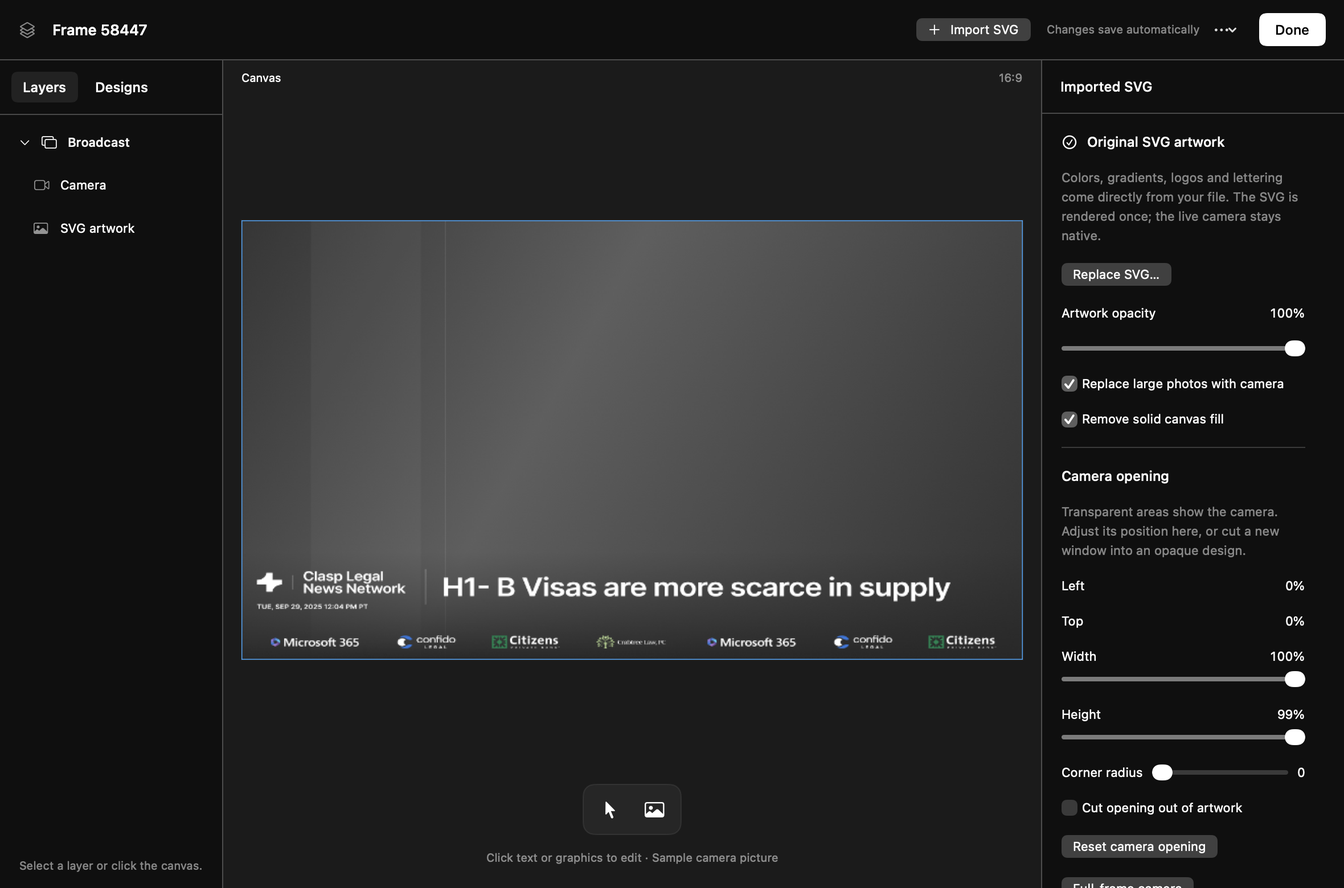
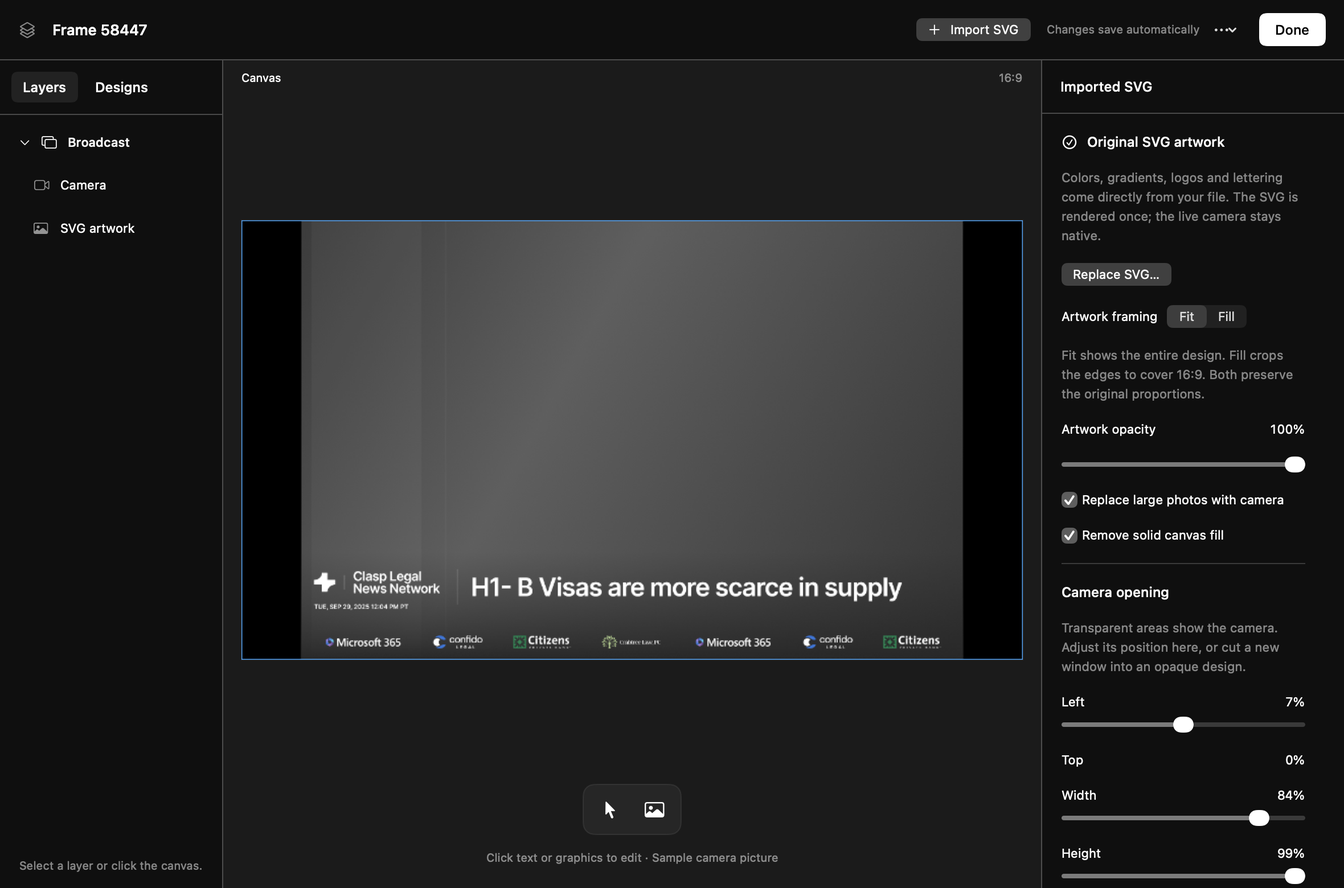
Preserve SVG proportions and enable account-free automatic updates

Changed region(s): [[0.1547, 0.2462, 0.9898, 0.8615], [0.7733, 0.8615, 0.9898, 1.0]]

diff --git a/Sources/SVGOverlay.swift b/Sources/SVGOverlay.swift
@@ -19,7 +19,15 @@ struct ImportedSVGOverlay: Codable, Equatable {
     var replacePhotos = true
     var removeCanvasFill = true
     var removedPhotos = 0
+    // Missing on older projects whose raster artwork was stretched to 16:9.
+    var fit: SVGArtworkFit?
+    var cameraForRendering: SVGCameraWindow {
+        guard fit == nil else { return camera }
+        let frame = ImportedSVGGraphics.legacyArtworkRect(self)
+        return SVGCameraWindow(x: Double((frame.minX + camera.x * frame.width) / 1280), y: Double((720 - frame.maxY + camera.y * frame.height) / 720), width: Double(camera.width * frame.width / 1280), height: Double(camera.height * frame.height / 720), radius: camera.radius)
+    }
 }
+enum SVGArtworkFit: String, Codable, CaseIterable { case fit = "Fit", fill = "Fill" }
 enum SVGOverlayImport {
     // SVG is artwork, never executable input. Network and file references are
     // removed before WebKit sees it; its page also has a restrictive CSP.
@@ -51,10 +59,10 @@ enum SVGOverlayImport {
         try clean(root, depth: 0)
         return root.xmlString(options: [.nodePreserveAll]).data(using: .utf8)!
     }
-    @MainActor static func render(_ data: Data, replacePhotos: Bool = true, removeCanvasFill: Bool = true) async throws -> ImportedSVGOverlay {
+    @MainActor static func render(_ data: Data, replacePhotos: Bool = true, removeCanvasFill: Bool = true, fit: SVGArtworkFit = .fit) async throws -> ImportedSVGOverlay {
         let clean = try await Task.detached { try sanitize(data) }.value
         let renderer = SVGImportRenderer()
-        return try await renderer.render(clean, replacePhotos: replacePhotos, removeCanvasFill: removeCanvasFill)
+        return try await renderer.render(clean, replacePhotos: replacePhotos, removeCanvasFill: removeCanvasFill, fit: fit)
     }
 }
 @MainActor private final class SVGImportRenderer: NSObject, WKNavigationDelegate {
@@ -63,8 +71,9 @@ enum SVGOverlayImport {
     private var timeout: Task<Void, Never>?
     private var source = Data()
     private var replacePhotos = true, removeCanvasFill = true
-    func render(_ source: Data, replacePhotos: Bool, removeCanvasFill: Bool) async throws -> ImportedSVGOverlay {
-        self.source = source; self.replacePhotos = replacePhotos; self.removeCanvasFill = removeCanvasFill
+    private var fit = SVGArtworkFit.fit
+    func render(_ source: Data, replacePhotos: Bool, removeCanvasFill: Bool, fit: SVGArtworkFit) async throws -> ImportedSVGOverlay {
+        self.source = source; self.replacePhotos = replacePhotos; self.removeCanvasFill = removeCanvasFill; self.fit = fit
         let config = WKWebViewConfiguration(); config.websiteDataStore = .nonPersistent()
         config.defaultWebpagePreferences.allowsContentJavaScript = false
         webView = WKWebView(frame: NSRect(x: 0, y: 0, width: 1280, height: 720), configuration: config)
@@ -92,33 +101,36 @@ enum SVGOverlayImport {
             if(!(w>0&&h>0)) throw Error('SVG needs a viewBox or width and height');
             svg.setAttribute('viewBox',`0 0 ${w} ${h}`);
           }
-          svg.setAttribute('width','1280');svg.setAttribute('height','720');svg.setAttribute('preserveAspectRatio','none');
+          svg.setAttribute('width','1280');svg.setAttribute('height','720');svg.setAttribute('preserveAspectRatio','xMidYMid \#(fit == .fit ? "meet" : "slice")');
+          const view=svg.viewBox.baseVal,scale=Math.\#(fit == .fit ? "min" : "max")(1280/view.width,720/view.height);
+          const canvas={x:(1280-view.width*scale)/2560,y:(720-view.height*scale)/1440,width:view.width*scale/1280,height:view.height*scale/720};
           const bounds=e=>{const b=e.getBoundingClientRect();return {x:b.x/1280,y:b.y/720,width:b.width/1280,height:b.height/720}};
           const area=b=>b.width*b.height;
           const visible=e=>!e.closest('defs,clipPath,mask,pattern');
           const candidates=[];
           for(const e of svg.querySelectorAll('image,rect,path,polygon')){
             if(!visible(e))continue;
-            const b=bounds(e);if(area(b)<.05)continue;
+            const b=bounds(e);if(area(b)/area(canvas)<.05)continue;
             const label=(e.id+' '+(e.getAttribute('data-role')||'')).toLowerCase();
             if(/camera|video-feed|presenter-photo/.test(label)) candidates.push({e,b,named:true});
-            if(e.tagName.toLowerCase()==='image'&&area(b)>.18)candidates.push({e,b,photo:true});
+            if(e.tagName.toLowerCase()==='image'&&area(b)/area(canvas)>.18)candidates.push({e,b,photo:true});
             const fill=e.getAttribute('fill')||getComputedStyle(e).fill;
             const match=fill.match(/url\(["']?#([^"')]+)["']?\)/);
             const pattern=match?document.getElementById(match[1]):null;
-            if(pattern&&pattern.tagName.toLowerCase()==='pattern'&&area(b)>.18){
+            if(pattern&&pattern.tagName.toLowerCase()==='pattern'&&area(b)/area(canvas)>.18){
               const embedded=pattern.querySelector('image')||Array.from(pattern.querySelectorAll('use')).map(u=>document.getElementById((u.getAttribute('href')||u.getAttribute('xlink:href')||'').replace(/^#/,''))).find(n=>n&&n.tagName.toLowerCase()==='image');
               if(embedded)candidates.push({e,b,photo:true,pattern,embedded});
             }
           }
           candidates.sort((a,b)=>(b.named?10:0)+area(b.b)-(a.named?10:0)-area(a.b));
-          const camera=candidates[0]?.b||{x:0,y:0,width:1,height:1};let removed=0;
+          const opening=candidates[0]?.b||canvas;
+          const camera={x:Math.max(0,opening.x),y:Math.max(0,opening.y),width:Math.min(1,opening.x+opening.width)-Math.max(0,opening.x),height:Math.min(1,opening.y+opening.height)-Math.max(0,opening.y)};let removed=0;
           if(\#(replacePhotos ? "true" : "false"))for(const c of candidates){
             if(c.photo||c.named){c.e.remove();if(c.pattern)c.pattern.remove();if(c.embedded)c.embedded.remove();removed++;}
           }
           if(\#(removeCanvasFill ? "true" : "false"))for(const e of Array.from(svg.querySelectorAll('rect'))){
             if(!visible(e))continue;const b=bounds(e),fill=e.getAttribute('fill')||getComputedStyle(e).fill;
-            if(area(b)>.97&&!fill.includes('url(')&&fill!=='none')e.remove();
+            if(area(b)/area(canvas)>.97&&!fill.includes('url(')&&fill!=='none')e.remove();
           }
           return {camera,removed};
         })()
@@ -132,7 +144,7 @@ enum SVGOverlayImport {
             self.webView.takeSnapshot(with: snapshot) { [weak self] image, error in
                 guard let self, self.continuation != nil else { return }
                 guard let cg = image?.studioCGImage, let normalized = BroadcastGraphics.image({ ctx in ctx.draw(cg, in: CGRect(x: 0, y: 0, width: 1280, height: 720)) }), let png = NSBitmapImageRep(cgImage: normalized).representation(using: .png, properties: [:]) else { self.finish(.failure(error ?? StudioError.message("The SVG preview could not be created."))); return }
-                self.finish(.success(ImportedSVGOverlay(source: self.source, png: png, camera: camera, replacePhotos: self.replacePhotos, removeCanvasFill: self.removeCanvasFill, removedPhotos: result["removed"] as? Int ?? 0)))
+                self.finish(.success(ImportedSVGOverlay(source: self.source, png: png, camera: camera, replacePhotos: self.replacePhotos, removeCanvasFill: self.removeCanvasFill, removedPhotos: result["removed"] as? Int ?? 0, fit: self.fit)))
             }
         }
     }
@@ -143,6 +155,21 @@ enum SVGOverlayImport {
     }
 }
 enum ImportedSVGGraphics {
+    private static let legacyFrames = NSCache<NSString, NSValue>()
+    static func legacyArtworkRect(_ asset: ImportedSVGOverlay) -> CGRect {
+        let key = asset.id.uuidString as NSString
+        if let value = legacyFrames.object(forKey: key) { return value.rectValue }
+        var size = CGSize(width: 1280, height: 720)
+        if let root = (try? XMLDocument(data: asset.source, options: [.nodeLoadExternalEntitiesNever]))?.rootElement() {
+            let box = (root.attribute(forName: "viewBox")?.stringValue ?? "").split(whereSeparator: { $0.isWhitespace || $0 == "," }).compactMap { Double($0) }
+            if box.count == 4 { size = CGSize(width: box[2], height: box[3]) }
+            else if let width = root.attribute(forName: "width")?.stringValue.flatMap(Double.init), let height = root.attribute(forName: "height")?.stringValue.flatMap(Double.init) { size = CGSize(width: width, height: height) }
+        }
+        if !size.width.isFinite || !size.height.isFinite || size.width <= 0 || size.height <= 0 { size = CGSize(width: 1280, height: 720) }
+        let scale = min(1280 / size.width, 720 / size.height)
+        let frame = CGRect(x: (1280 - size.width * scale) / 2, y: (720 - size.height * scale) / 2, width: size.width * scale, height: size.height * scale)
+        legacyFrames.setObject(NSValue(rect: frame), forKey: key); return frame
+    }
     private static let cache: NSCache<NSString, NSImage> = { let value = NSCache<NSString, NSImage>(); value.countLimit = 16; value.totalCostLimit = 64 * 1024 * 1024; return value }()
     static func artwork(_ asset: ImportedSVGOverlay) -> CGImage? {
         let key = asset.id.uuidString as NSString
@@ -151,9 +178,9 @@ enum ImportedSVGGraphics {
         cache.setObject(image, forKey: key, cost: 1280 * 720 * 4); return image.studioCGImage
     }
     static func settings(_ doc: OverlayDocument, mirror: Bool) -> RenderSettings {
-        let camera = doc.cameraWindow ?? doc.importedSVG?.camera ?? SVGCameraWindow(), rect = camera.rect
+        let camera = doc.cameraWindow ?? doc.importedSVG?.cameraForRendering ?? SVGCameraWindow(), rect = camera.rect
         let overlay = BroadcastGraphics.image { ctx in
-            if let asset = doc.importedSVG, let artwork = artwork(asset) { ctx.setAlpha(min(1, max(0, doc.artworkOpacity ?? 1))); ctx.draw(artwork, in: CGRect(x: 0, y: 0, width: 1280, height: 720)) }
+            if let asset = doc.importedSVG, let artwork = artwork(asset) { ctx.setAlpha(min(1, max(0, doc.artworkOpacity ?? 1))); ctx.draw(artwork, in: asset.fit == nil ? legacyArtworkRect(asset) : CGRect(x: 0, y: 0, width: 1280, height: 720)) }
             if doc.cutCameraWindow == true { ctx.setBlendMode(.clear); BroadcastGraphics.rounded(ctx, rect, camera.safeRadius, .clear) }
         }
         let mask = BroadcastGraphics.image { ctx in BroadcastGraphics.rounded(ctx, rect, camera.safeRadius, .white) }

diff --git a/Sources/AppUpdater.swift b/Sources/AppUpdater.swift
@@ -49,28 +49,40 @@ enum UpdateCommand {
     }
 }
 struct GitHubRelease: Decodable {
-    struct Asset: Decodable { let id: Int; let name: String; let size: Int }
+    struct Asset: Decodable { let id: Int; let name: String; let size: Int; var browser_download_url: URL? }
     let tag_name: String
     let assets: [Asset]
 }
 struct GitHubTransport: Sendable {
     let token: String?
     static var cli: String? { ["/opt/homebrew/bin/gh", "/usr/local/bin/gh", "/usr/bin/gh"].first { FileManager.default.isExecutableFile(atPath: $0) } }
+    static func publicAssetURL(_ asset: GitHubRelease.Asset) -> URL? {
+        guard let url = asset.browser_download_url, url.scheme == "https", url.host == "github.com", url.user == nil, url.password == nil, url.port == nil, url.query == nil, url.fragment == nil,
+              url.path.hasPrefix("/" + UpdateVerification.repository + "/releases/download/"), url.lastPathComponent == asset.name else { return nil }
+        return url
+    }
+    private func request(_ url: URL, binary: Bool, authenticated: Bool = false) async throws -> Data {
+        var request = URLRequest(url: url); request.timeoutInterval = 45
+        if authenticated, let token, !token.isEmpty { request.setValue("Bearer " + token, forHTTPHeaderField: "Authorization") }
+        request.setValue(binary ? "application/octet-stream" : "application/vnd.github+json", forHTTPHeaderField: "Accept")
+        request.setValue("Clasp-Studio", forHTTPHeaderField: "User-Agent")
+        let (data, response) = try await URLSession.shared.data(for: request)
+        guard let response = response as? HTTPURLResponse, response.statusCode == 200 else { throw UpdateError.message("GitHub updates are unavailable right now. Check your connection or repository access.") }
+        return data
+    }
     func get(_ path: String, binary: Bool = false) async throws -> Data {
-        if let token, !token.isEmpty {
-            var request = URLRequest(url: URL(string: "https://api.github.com/" + path)!); request.timeoutInterval = 45
-            request.setValue("Bearer " + token, forHTTPHeaderField: "Authorization")
-            request.setValue(binary ? "application/octet-stream" : "application/vnd.github+json", forHTTPHeaderField: "Accept")
-            request.setValue("Clasp-Studio", forHTTPHeaderField: "User-Agent")
-            let (data, response) = try await URLSession.shared.data(for: request)
-            guard let response = response as? HTTPURLResponse, response.statusCode == 200 else { throw UpdateError.message("GitHub could not authorize this update request. Check your repository access.") }
-            return data
+        let url = URL(string: "https://api.github.com/" + path)!
+        // Public releases work without a token, GitHub account or CLI. Keep
+        // authenticated access as a fallback if the repository becomes private.
+        do { return try await request(url, binary: binary) } catch {
+            if let token, !token.isEmpty { return try await request(url, binary: binary, authenticated: true) }
+            guard let cli = Self.cli else { throw error }
+            return try await Task.detached { try UpdateCommand.run(cli, ["api", path, "--header", "Accept:" + (binary ? "application/octet-stream" : "application/vnd.github+json")]) }.value
         }
-        guard let cli = Self.cli else { throw UpdateError.message("Connect GitHub below to receive updates from the private repository.") }
-        return try await Task.detached { try UpdateCommand.run(cli, ["api", path, "--header", "Accept:" + (binary ? "application/octet-stream" : "application/vnd.github+json")]) }.value
     }
     func asset(_ asset: GitHubRelease.Asset) async throws -> Data {
         guard asset.size > 0, asset.size <= 128 * 1024 * 1024 else { throw UpdateError.message("The update asset is too large.") }
+        if let url = Self.publicAssetURL(asset) { do { return try await request(url, binary: true) } catch { /* Try authenticated API access for private releases. */ } }
         return try await get("repos/" + UpdateVerification.repository + "/releases/assets/\(asset.id)", binary: true)
     }
 }
@@ -91,7 +103,7 @@ enum UpdateCredentials {
     static func remove() { SecItemDelete(query as CFDictionary) }
 }
 @MainActor final class AppUpdater: ObservableObject {
-    @Published var message = "Updates come from your private GitHub repository."
+    @Published var message = "Signed updates download automatically from GitHub and install when you quit."
     @Published var working = false
     @Published var ready = false
     @Published var automatic = UserDefaults.standard.object(forKey: "automaticGitHubUpdates") as? Bool ?? true { didSet { UserDefaults.standard.set(automatic, forKey: "automaticGitHubUpdates") } }
@@ -102,7 +114,7 @@ enum UpdateCredentials {
     private var prepared: URL?
     private var updateBuild = 0
     private var cache: URL { FileManager.default.urls(for: .cachesDirectory, in: .userDomainMask)[0].appendingPathComponent("com.clasp.studio/updates", isDirectory: true) }
-    var accountDescription: String { hasToken ? "GitHub access saved in Keychain" : GitHubTransport.cli != nil ? "Uses your signed-in GitHub CLI" : "Connect GitHub to access this private repository" }
+    var accountDescription: String { hasToken ? "Private-repository access saved in Keychain" : "Public updates work without a GitHub account. Access is only needed for private releases." }
     init() { hasToken = UpdateCredentials.token() != nil }
     deinit { timer?.invalidate() }
     func start() {
@@ -113,7 +125,7 @@ enum UpdateCredentials {
     func saveToken(_ token: String) { do { try UpdateCredentials.save(token); hasToken = true; message = "GitHub connected. Check for updates when ready." } catch { message = error.localizedDescription } }
     func removeToken() { UpdateCredentials.remove(); hasToken = false; message = "GitHub access removed from Keychain." }
     func check() async {
-        guard !working, !ready else { return }; working = true; message = "Checking GitHub…"
+        guard !working else { return }; working = true; message = "Checking GitHub…"
         defer { working = false }
         do {
             let transport = GitHubTransport(token: UpdateCredentials.token())
@@ -124,6 +136,7 @@ enum UpdateCredentials {
             let manifest = try UpdateVerification.verify(data, signature: signature, publicKey: key)
             let build = Int(Bundle.main.object(forInfoDictionaryKey: "CFBundleVersion") as? String ?? "0") ?? 0
             guard manifest.build > build else { message = "You're up to date · build \(build)"; return }
+            if ready, manifest.build <= updateBuild { message = "Update ready · installs when you quit, or restart now."; return }
             guard archiveAsset.size == manifest.size else { throw UpdateError.message("The release archive size does not match its signed manifest.") }
             if try Bundle.main.bundleURL.resourceValues(forKeys: [.volumeIsReadOnlyKey]).volumeIsReadOnly == true { message = "Update available. Install Clasp Studio in Applications first."; return }
             message = "Downloading Clasp Studio \(manifest.version)…"
@@ -139,7 +152,9 @@ enum UpdateCredentials {
                 _ = try UpdateCommand.run("/usr/bin/codesign", ["--verify", "--deep", "--strict", app.path])
                 guard let bundle = Bundle(url: app), bundle.bundleIdentifier == "com.clasp.studio", Int(bundle.object(forInfoDictionaryKey: "CFBundleVersion") as? String ?? "0") == manifest.build else { throw UpdateError.message("The app inside this update does not match the signed release.") }
             }.value
+            let previous = prepared
             prepared = app; updateBuild = manifest.build; ready = true
+            if let previous { try? FileManager.default.removeItem(at: previous.deletingLastPathComponent().deletingLastPathComponent()) }
             message = "Update ready · installs when you quit, or restart now."
         } catch { message = error.localizedDescription.contains("404") ? "Waiting for the first GitHub release." : error.localizedDescription }
     }

diff --git a/Tests/SVGOverlayTests.swift b/Tests/SVGOverlayTests.swift
@@ -25,9 +25,27 @@ extension StudioTests {
         let clear = bitmap.colorAt(x: 640, y: 360)!.alphaComponent, middle = bitmap.colorAt(x: 640, y: 630)!.alphaComponent, bottom = bitmap.colorAt(x: 640, y: 715)!.alphaComponent
         check(clear < 0.01 && middle > 0.3 && middle < 0.7 && bottom > 0.9, "SVG alpha gradients survive import instead of becoming a solid background")
         check(bitmap.colorAt(x: 1210, y: 40)!.redComponent > 0.9 && bitmap.colorAt(x: 1210, y: 40)!.alphaComponent > 0.9, "Small embedded SVG logos remain in the original artwork")
+        let square = Data("<svg xmlns='http://www.w3.org/2000/svg' viewBox='0 0 100 100'><rect id='camera' width='100' height='100'/><circle cx='50' cy='50' r='20' fill='red'/></svg>".utf8)
+        let fitted = try await SVGOverlayImport.render(square)
+        let fitPixels = NSBitmapImageRep(data: fitted.png)!
+        check(fitted.fit == .fit && fitted.camera.rect == CGRect(x: 280, y: 0, width: 720, height: 720), "Non-16:9 SVGs fit with a camera opening that preserves source proportions")
+        check(fitPixels.colorAt(x: 500, y: 360)!.alphaComponent > 0.9 && fitPixels.colorAt(x: 480, y: 360)!.alphaComponent < 0.01 && fitPixels.colorAt(x: 640, y: 500)!.alphaComponent > 0.9 && fitPixels.colorAt(x: 640, y: 520)!.alphaComponent < 0.01, "A square SVG circle stays circular in the 16:9 preview")
+        let filled = try await SVGOverlayImport.render(square, fit: .fill)
+        let fillPixels = NSBitmapImageRep(data: filled.png)!
+        check(filled.camera.rect == CGRect(x: 0, y: 0, width: 1280, height: 720) && fillPixels.colorAt(x: 390, y: 360)!.alphaComponent > 0.9 && fillPixels.colorAt(x: 640, y: 610)!.alphaComponent > 0.9, "Fill covers the broadcast by cropping, without stretching SVG geometry")
+        let portrait = try await SVGOverlayImport.render(Data("<svg xmlns='http://www.w3.org/2000/svg' viewBox='10 20 100 200'><rect x='10' y='20' width='100' height='200' fill='white'/><rect id='camera' x='10' y='20' width='100' height='200'/></svg>".utf8))
+        check(portrait.camera.rect == CGRect(x: 460, y: 0, width: 360, height: 720) && NSBitmapImageRep(data: portrait.png)!.colorAt(x: 640, y: 360)!.alphaComponent < 0.01, "Portrait SVGs and nonzero viewBox origins retain their camera alignment and remove solid canvas fills")
+        var legacy = fitted; legacy.fit = nil; legacy.camera = SVGCameraWindow()
+        let stretched = BroadcastGraphics.image { ctx in BroadcastGraphics.fill(ctx, CGRect(x: 0, y: 0, width: 1280, height: 720), .red) }!
+        legacy.png = NSBitmapImageRep(cgImage: stretched).representation(using: .png, properties: [:])!
+        var legacyDoc = OverlayDocument.presets(StudioProject())[0]; legacyDoc.template = .custom; legacyDoc.importedSVG = legacy
+        let legacySettings = ImportedSVGGraphics.settings(legacyDoc, mirror: false), legacyPixels = NSBitmapImageRep(cgImage: legacySettings.overlay!)
+        check(legacySettings.cameraRect == CGRect(x: 280, y: 0, width: 720, height: 720) && legacyPixels.colorAt(x: 100, y: 360)!.alphaComponent < 0.01 && legacyPixels.colorAt(x: 300, y: 360)!.redComponent > 0.9, "Previously saved stretched SVGs recover their original aspect ratio without reimporting")
         var doc = OverlayDocument.presets(StudioProject())[0]; doc.template = .custom; doc.importedSVG = asset
         let encoded = try JSONEncoder().encode(doc), restored = try JSONDecoder().decode(OverlayDocument.self, from: encoded)
         check(restored.importedSVG == asset, "Imported SVG artwork and camera settings persist in projects and drafts")
+        let fillRoundTrip = try JSONDecoder().decode(ImportedSVGOverlay.self, from: JSONEncoder().encode(filled))
+        check(fillRoundTrip.fit == .fill, "SVG framing choice persists in saved projects")
         let context = CIContext(), bounds = CGRect(x: 0, y: 0, width: 1280, height: 720)
         let blue = CIImage(color: CIColor(red: 0, green: 0.6, blue: 1)).cropped(to: bounds)
         let rendered = BroadcastFrameRenderer(ImportedSVGGraphics.settings(doc, mirror: false)).compose(blue, at: 0)

diff --git a/Sources/ImportedSVGInspector.swift b/Sources/ImportedSVGInspector.swift
@@ -2,7 +2,7 @@ import SwiftUI
 
 struct ImportedSVGInspector: View {
     @ObservedObject var model: StudioModel
-    private var camera: SVGCameraWindow { model.overlay.cameraWindow ?? model.overlay.importedSVG?.camera ?? SVGCameraWindow() }
+    private var camera: SVGCameraWindow { model.overlay.cameraWindow ?? model.overlay.importedSVG?.cameraForRendering ?? SVGCameraWindow() }
     private func number(_ key: WritableKeyPath<SVGCameraWindow, Double>) -> Binding<Double> {
         Binding(get: { camera[keyPath: key] }, set: { value in var window = camera; window[keyPath: key] = value; model.editOverlay { $0.cameraWindow = window } })
     }
@@ -13,6 +13,10 @@ struct ImportedSVGInspector: View {
                 Text("Colors, gradients, logos and lettering come directly from your file. The SVG is rendered once; the live camera stays native.").foregroundStyle(.secondary).lineSpacing(3)
                 if model.importingSVG { ProgressView("Rendering SVG…").controlSize(.small) }
                 Button("Replace SVG…") { model.importSVGOverlay(replacing: model.overlay.id) }.disabled(model.importingSVG || model.busy)
+                Picker("Artwork framing", selection: Binding(get: { model.overlay.importedSVG?.fit ?? .fit }, set: { model.refreshImportedSVG(fit: $0) })) {
+                    ForEach(SVGArtworkFit.allCases, id: \.self) { Text($0.rawValue).tag($0) }
+                }.pickerStyle(.segmented).disabled(model.importingSVG || model.busy)
+                Text("Fit shows the entire design. Fill crops the edges to cover 16:9. Both preserve the original proportions.").foregroundStyle(.secondary).lineSpacing(3)
                 HStack { Text("Artwork opacity"); Spacer(); Text("\(Int((model.overlay.artworkOpacity ?? 1) * 100))%").monospacedDigit() }
                 Slider(value: Binding(get: { model.overlay.artworkOpacity ?? 1 }, set: { value in model.editOverlay { $0.artworkOpacity = value } }), in: 0...1)
                 Toggle("Replace large photos with camera", isOn: Binding(get: { model.overlay.importedSVG?.replacePhotos ?? true }, set: { model.refreshImportedSVG(replacePhotos: $0) })).toggleStyle(.checkbox).disabled(model.importingSVG || model.busy)

diff --git a/Tests/StudioTests.swift b/Tests/StudioTests.swift
@@ -360,6 +360,13 @@ enum StudioTests {
         let wrongBody = try! JSONEncoder().encode(wrongRepo)
         check((try? UpdateVerification.verify(wrongBody, signature: key.signature(for: wrongBody), publicKey: key.publicKey.rawRepresentation)) == nil, "The updater only accepts its configured repository")
         check(Bundle.main.url(forAuxiliaryExecutable: "ClaspUpdateInstaller") != nil, "The update installation helper is bundled")
+        let assetJSON = Data("{\"id\":1,\"name\":\"Clasp-Studio.zip\",\"size\":100,\"browser_download_url\":\"https://github.com/deanayoung3-droid/clasp-studio/releases/download/build-8/Clasp-Studio.zip\"}".utf8)
+        var publicAsset = try! JSONDecoder().decode(GitHubRelease.Asset.self, from: assetJSON)
+        check(GitHubTransport.publicAssetURL(publicAsset) != nil, "Public GitHub release assets can download without a token or GitHub CLI")
+        for invalid in ["http://github.com/deanayoung3-droid/clasp-studio/releases/download/build-8/Clasp-Studio.zip", "https://github.com/another/repo/releases/download/build-8/Clasp-Studio.zip", "https://example.com/deanayoung3-droid/clasp-studio/releases/download/build-8/Clasp-Studio.zip", "https://github.com/deanayoung3-droid/clasp-studio/releases/download/build-8/different.zip"] {
+            publicAsset.browser_download_url = URL(string: invalid)
+            check(GitHubTransport.publicAssetURL(publicAsset) == nil, "Public updater rejects an untrusted release download URL")
+        }
     }
     static func libraryChecks() async {
         let context = CIContext(), source = CIImage(color: CIColor(red: 0.2, green: 0.4, blue: 0.6)).cropped(to: CGRect(x: 0, y: 0, width: 640, height: 480))

diff --git a/Sources/StudioModel.swift b/Sources/StudioModel.swift
@@ -413,13 +413,13 @@ enum PrompterMode: String, CaseIterable {
             }
         }
     }
-    func refreshImportedSVG(replacePhotos: Bool? = nil, removeCanvasFill: Bool? = nil) {
+    func refreshImportedSVG(replacePhotos: Bool? = nil, removeCanvasFill: Bool? = nil, fit: SVGArtworkFit? = nil) {
         guard !importingSVG, !busy, let asset = overlay.importedSVG else { return }
         let id = overlay.id; importingSVG = true
         Task {
             defer { importingSVG = false }
             do {
-                let rendered = try await SVGOverlayImport.render(asset.source, replacePhotos: replacePhotos ?? asset.replacePhotos, removeCanvasFill: removeCanvasFill ?? asset.removeCanvasFill)
+                let rendered = try await SVGOverlayImport.render(asset.source, replacePhotos: replacePhotos ?? asset.replacePhotos, removeCanvasFill: removeCanvasFill ?? asset.removeCanvasFill, fit: fit ?? asset.fit ?? .fit)
                 guard let index = project.overlayLibrary?.firstIndex(where: { $0.id == id }) else { return }
                 project.overlayLibrary?[index].importedSVG = rendered
             } catch { alert = error.localizedDescription }

diff --git a/Sources/UpdateSettingsView.swift b/Sources/UpdateSettingsView.swift
@@ -11,7 +11,7 @@ struct UpdateSettingsView: View {
             Toggle("Automatically check and download updates", isOn: $updater.automatic).toggleStyle(.checkbox).font(.system(size: 11))
             Text("Downloaded updates install when you quit. Recording and saving always finish first.").font(.system(size: 10)).foregroundStyle(.secondary)
             HStack {
-                Button(updater.working ? "Checking…" : "Check for updates") { Task { await updater.check() } }.disabled(updater.working || updater.ready)
+                Button(updater.working ? "Checking…" : "Check for updates") { Task { await updater.check() } }.disabled(updater.working)
                 if updater.ready { Button("Install and restart") {
                     guard !model.busy else { return }
                     updater.restartRequested = true; model.settingsOpen = false

diff --git a/Sources/OverlayComponents.swift b/Sources/OverlayComponents.swift
@@ -85,7 +85,7 @@ extension OverlayDocument {
     }
     func zone(_ component: OverlayComponent) -> CGRect {
         let t = template
-        if t == .custom { return component == .camera ? (cameraWindow ?? importedSVG?.camera ?? SVGCameraWindow()).rect : CGRect(x: 0, y: 0, width: 1280, height: 720) }
+        if t == .custom { return component == .camera ? (cameraWindow ?? importedSVG?.cameraForRendering ?? SVGCameraWindow()).rect : CGRect(x: 0, y: 0, width: 1280, height: 720) }
         if t == .ticker {
             switch component {
             case .camera: return t.cameraRect

diff --git a/README.md b/README.md
@@ -42,6 +42,8 @@ Clasp Studio combines a live camera, your selected microphone, a script-followin
 
 Choose **Overlays → Import SVG**, or **Import SVG overlay…** in the video editor. The file becomes a reusable design immediately, preserving its shapes, outlined lettering, logos and transparent gradients. Its large embedded photos are replaced by the camera by default; smaller logos stay in the artwork.
 
+SVG artwork keeps its original proportions. **Fit** shows the entire design with margins when its aspect ratio differs from 16:9; **Fill** crops the edges to cover the frame. Neither stretches the artwork. Previously saved SVG imports are corrected automatically.
+
 The imported design inspector controls artwork opacity, photo replacement, removal of solid canvas fills, and the camera opening’s position, size and corner radius. **Cut opening out of artwork** creates a camera window in an opaque design. Use **Replace SVG…** to bring in a revised file while keeping the library entry. SVG lettering converted to paths stays in the artwork and must be changed in your SVG authoring app. Imported SVGs are rendered once and cached; the camera preview and export use native Core Image layers. External links and scripts are not loaded.
 
 ![An original SVG imported into Clasp Studio](docs/media/svg-import.png)
@@ -146,7 +148,7 @@ Drafts autosave. Undo/redo keeps up to fifty edit states. Export and cancel oper
 flowchart LR
   A[Push to main] --> B[Build and verify universal app]
   B --> C[Package DMG and sign update manifest]
-  C --> D[Publish private GitHub release]
+  C --> D[Publish signed GitHub release]
   D --> E[App checks and downloads]
   E --> F[Install on quit or restart]
 ```
@@ -155,7 +157,9 @@ The release workflow runs on pushes to `main` and can also be run manually from 
 
 Downloaded updates install when you quit, or through **Studio settings → GitHub updates → Install and restart**. The app protects active recording and export from interruption. Installation keeps a previous copy until the new app passes verification and restores it if replacement fails.
 
-This repository is private. On a developer Mac, the updater can use the signed-in GitHub CLI. Other Macs can enter a GitHub fine-grained token with **Contents: read** for this repository under **GitHub access…**; the app saves it in macOS Keychain.
+Public releases download without a GitHub account, token or GitHub CLI. Automatic checks are enabled by default. If a newer release arrives while an update is already prepared, the app replaces the prepared update with the newer verified build. If the repository becomes private, the optional **GitHub access…** controls and signed-in GitHub CLI remain available.
+
+Versions before 2.0.4 assumed private repository access. Those installations need one update to 2.0.4 or later: their existing updater works if GitHub access is connected, or users can install the latest DMG once. Versions without an updater also require that one-time installation. Afterwards, future signed releases download automatically and install on quit. Turning off automatic updates is respected.
 
 The workflow’s `CLASP_UPDATE_SIGNING_KEY` secret is configured in this repository. Its corresponding public key is bundled with the app. Keep that signing key stable so already installed apps can verify future releases. The private signing key is never committed.
 

diff --git a/docs/USER_GUIDE.md b/docs/USER_GUIDE.md
@@ -98,6 +98,12 @@ Law · Glass now blurs only the camera pixels behind its frosted panels. Blur an
 
 Open **Overlays** and choose **Import SVG**. You can also import from the video editor’s Overlay inspector or the File menu. The selected file is rendered into a reusable library design, preserving vector artwork, embedded logos and alpha gradients. Large photo placeholders and solid canvas fills are removed by default so the live camera can show through.
 
-The imported-design inspector lets you change artwork opacity, toggle photo replacement or solid-fill removal, and position or resize the camera opening. Enable **Cut opening out of artwork** to clear a new camera area in an opaque overlay; adjust the corner radius there. Choose **Reset camera opening** to restore the detected position. **Replace SVG…** updates that same design with a revised file. Lettering converted to paths remains SVG artwork, so change that lettering in your SVG authoring app before replacing the file.
+The imported-design inspector lets you change artwork opacity, toggle photo replacement or solid-fill removal, and position or resize the camera opening. **Artwork framing → Fit** keeps the whole SVG visible at its original aspect ratio. **Fill** crops the edges to cover 16:9 while keeping the artwork proportional. Old stretched imports are corrected automatically without reimporting. Enable **Cut opening out of artwork** to clear a new camera area in an opaque overlay; adjust the corner radius there. Choose **Reset camera opening** to restore the detected position. **Replace SVG…** updates that same design with a revised file. Lettering converted to paths remains SVG artwork, so change that lettering in your SVG authoring app before replacing the file.
 
 SVGs must be under 12 MB. Embedded PNG, JPEG, GIF and WebP logos work; external image links and scripts do not load. SVG artwork fits the 16:9 broadcast frame. Your original file stays unchanged. The imported artwork and its camera settings are saved with the project and any video draft using it.
+
+## Automatic app updates
+
+Clasp Studio 2.0.4 and later check public GitHub releases on launch and hourly without requiring a GitHub account or token. Leave **Studio settings → GitHub updates → Automatically check and download updates** enabled. Verified updates install when you quit; use **Install and restart** to install sooner. Active recording and export are protected.
+
+If an older installation asks for GitHub access, install the latest DMG once to receive account-free updates going forward. Older copies with working GitHub access can receive this upgrade through their existing updater. A version without an updater cannot update itself remotely.
